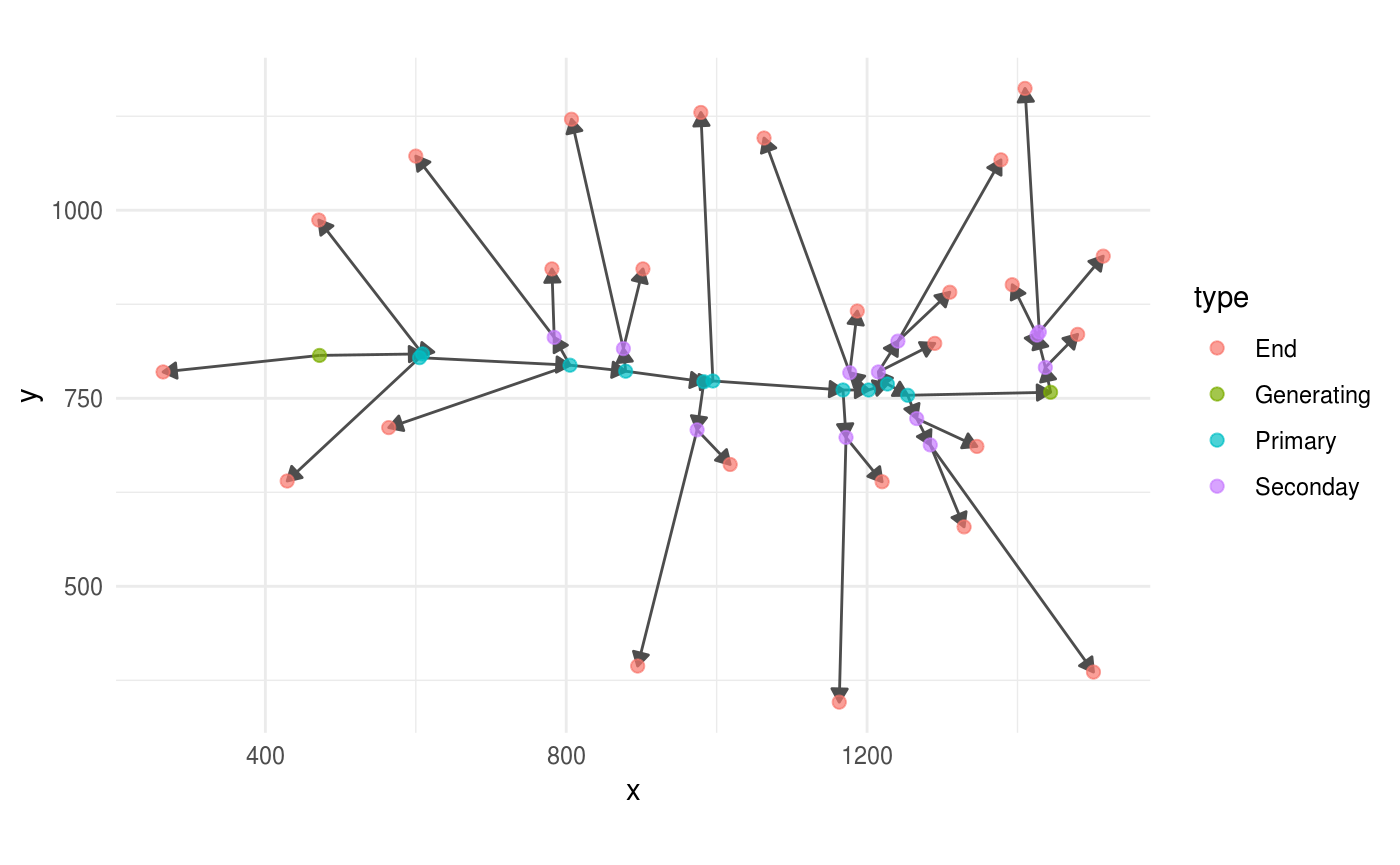
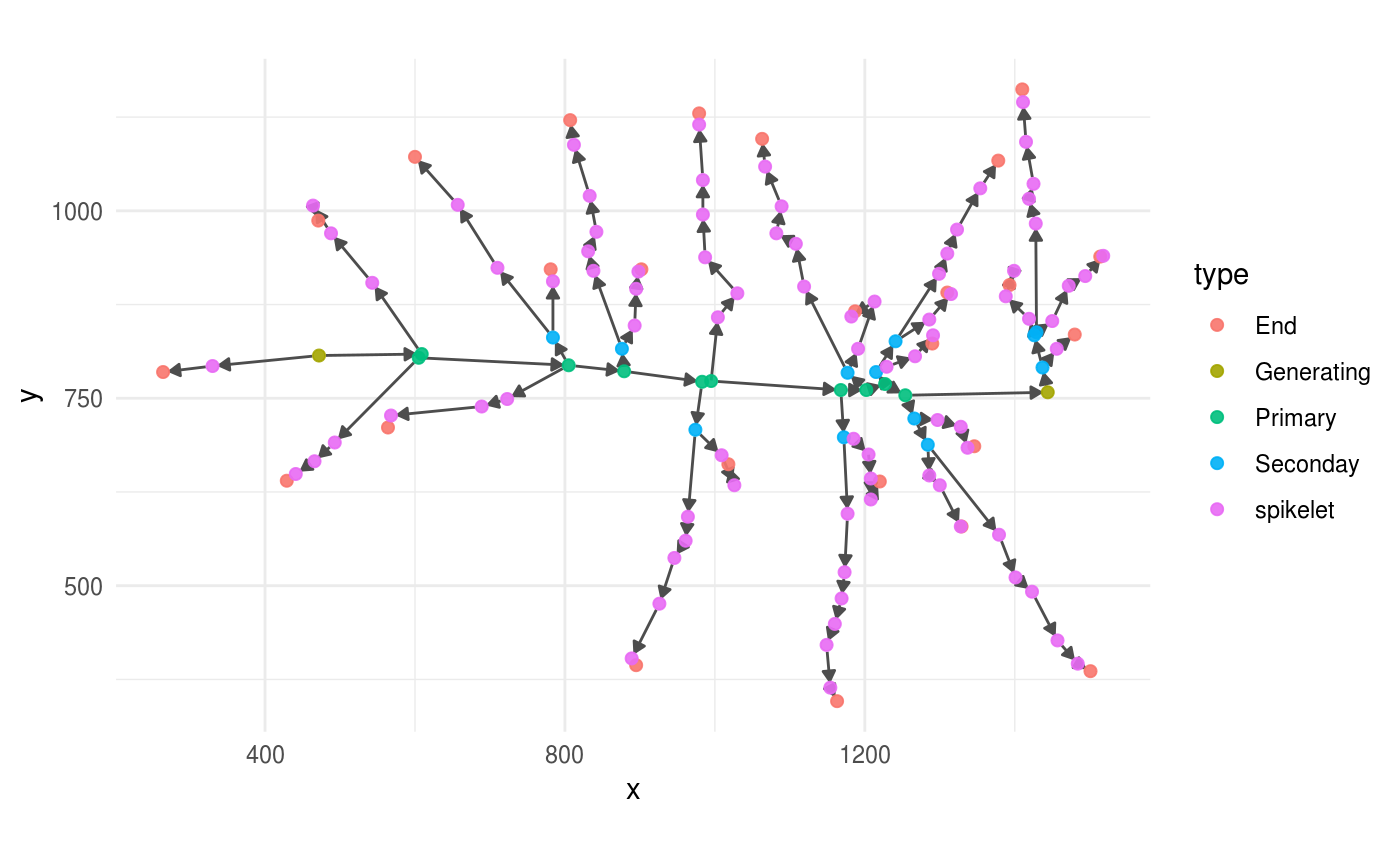
Update and improve vignette 01

diff --git a/docs/articles/01-load-files.html b/docs/articles/01-load-files.html
@@ -29,7 +29,7 @@
       </button>
       <span class="navbar-brand">
         <a class="navbar-link" href="../index.html">ptrapr</a>
-        <span class="label label-default" data-toggle="tooltip" data-placement="bottom" title="Released package">0.0.1</span>
+        <span class="label label-default" data-toggle="tooltip" data-placement="bottom" title="Released package">0.0.1.9000</span>
       </span>
     </div>
 
@@ -69,7 +69,14 @@
   <a href="../news/index.html">Changelog</a>
 </li>
       </ul>
-<ul class="nav navbar-nav navbar-right"></ul>
+<ul class="nav navbar-nav navbar-right">
+<li>
+  <a href="https://github.com/othomantegazza/ptrapr">
+    <span class="fa fa-github fa-lg"></span>
+     
+  </a>
+</li>
+      </ul>
 </div>
 <!--/.nav-collapse -->
   </div>
@@ -84,9 +91,9 @@
       <h1>01 - Load Panicles Files Into R</h1>
                         <h4 class="author">Otho Mantegazza</h4>
             
-            <h4 class="date">2018-12-07</h4>
+            <h4 class="date">2019-01-04</h4>
       
-      
+      <small class="dont-index">Source: <a href="https://github.com/othomantegazza/ptrapr/blob/master/vignettes/01-load-files.Rmd"><code>vignettes/01-load-files.Rmd</code></a></small>
       <div class="hidden name"><code>01-load-files.Rmd</code></div>
 
     </div>
@@ -103,6 +110,7 @@
 <span class="co"># library(tibble)</span>
 <span class="kw">library</span>(dplyr)
 <span class="co"># library(tidygraph)</span>
+<span class="kw">library</span>(stringr)
 
 <span class="co"># ggplot2 theme minimal fits better with graphs</span>
 <span class="kw">theme_set</span>(<span class="kw">theme_minimal</span>())</code></pre></div>
@@ -120,10 +128,53 @@
 </dd>
 </dl>
 <p>We have included examples of those files in this package. You can access these examples <a href="https://github.com/othomantegazza/ptrapr"><strong>online here</strong></a> or locally in the folder <code>ptrapr/extdata</code> <a href="#fn1" class="footnoteRef" id="fnref1"><sup>1</sup></a>.</p>
+<div id="easily-read-and-plot-the-full-panicle" class="section level2">
+<h2 class="hasAnchor">
+<a href="#easily-read-and-plot-the-full-panicle" class="anchor"></a>Easily read and plot the full panicle</h2>
+<p>We provide a convinent function that loads a full panicle in R: <code><a href="../reference/read_full_panicle.html">read_full_panicle()</a></code>. This funcrtion reads a file tha stores the panicle architecture (that has extension <code>.ricepr</code>) and its counterpart that stores the grain coordinates (that has extension <code>.ricegr</code>) and merges them together.</p>
+<p>This function requires the path to both files as argument.</p>
+<p>We provide examples of <code>.ricepr</code> and <code>.ricegr</code> files bundled in this package, with the following lines of code you can access those files and load them into R:</p>
+<div class="sourceCode"><pre class="sourceCode r"><code class="sourceCode r"><span class="co"># find a .ricepr file</span>
+structure_path &lt;-<span class="st"> </span><span class="kw">system.file</span>(<span class="st">"extdata/1_1_6307.ricepr"</span>, 
+                   <span class="dt">package =</span> <span class="st">"ptrapr"</span>) 
+
+<span class="co"># and its .ricegr counterpart</span>
+grain_path &lt;-<span class="st"> </span><span class="kw">system.file</span>(<span class="st">"extdata/1_1_6307.ricegr"</span>,
+                          <span class="dt">package =</span> <span class="st">"ptrapr"</span>)
+
+<span class="co"># load them into R and mergge them</span>
+full_panicle &lt;-<span class="st"> </span><span class="kw"><a href="../reference/read_full_panicle.html">read_full_panicle</a></span>(<span class="dt">pr_file =</span> structure_path,
+                                  <span class="dt">gr_file =</span> grain_path)</code></pre></div>
+<p>The function <code><a href="../reference/read_full_panicle.html">read_full_panicle()</a></code> outputs an graph object of class <a href="https://igraph.org/r/"><code>igraph</code></a>.</p>
+<p>This graph can be visualized directly with <code><a href="../reference/plot_panicle.html">plot_panicle()</a></code></p>
+<div class="sourceCode"><pre class="sourceCode r"><code class="sourceCode r"><span class="kw"><a href="../reference/plot_panicle.html">plot_panicle</a></span>(full_panicle)</code></pre></div>
+<p><img src="01-load-files_files/figure-html/unnamed-chunk-3-1.png" width="700"></p>
+<div id="if-the--ricepr-and--ricegr-files-have-the-same-name" class="section level3">
+<h3 class="hasAnchor">
+<a href="#if-the--ricepr-and--ricegr-files-have-the-same-name" class="anchor"></a>If the <code>.ricepr</code> and <code>.ricegr</code> files have the same name</h3>
+<p>If those two files are in the same folder and they have the same name, like in this case you can provide the path to those files omitting the extension to the function <code><a href="../reference/read_full_panicle.html">read_full_panicle()</a></code> in the parameter <code>base_path</code>.</p>
+<p>For example, in my case, the path to the .ricepr file is:</p>
+<div class="sourceCode"><pre class="sourceCode r"><code class="sourceCode r">structure_path
+<span class="co">#&gt; [1] "/home/otho/R/x86_64-pc-linux-gnu-library/3.4/ptrapr/extdata/1_1_6307.ricepr"</span></code></pre></div>
+<p>And the one to the .ricegr file is the same, only the extension changes:</p>
+<div class="sourceCode"><pre class="sourceCode r"><code class="sourceCode r">grain_path
+<span class="co">#&gt; [1] "/home/otho/R/x86_64-pc-linux-gnu-library/3.4/ptrapr/extdata/1_1_6307.ricegr"</span></code></pre></div>
+<p>So, I can remove the extension from one of those files:</p>
+<div class="sourceCode"><pre class="sourceCode r"><code class="sourceCode r">base_path &lt;-<span class="st"> </span>
+<span class="st">  </span>structure_path <span class="op">%&gt;%</span><span class="st"> </span>
+<span class="st">  </span><span class="kw"><a href="http://www.rdocumentation.org/packages/stringr/topics/str_remove">str_remove</a></span>(<span class="st">".ricepr"</span>)
+
+base_path
+<span class="co">#&gt; [1] "/home/otho/R/x86_64-pc-linux-gnu-library/3.4/ptrapr/extdata/1_1_6307"</span></code></pre></div>
+<p>And use that shortened version to load the full panicle into R with <code><a href="../reference/read_full_panicle.html">read_full_panicle()</a></code></p>
+<div class="sourceCode"><pre class="sourceCode r"><code class="sourceCode r">full_panicle &lt;-<span class="st"> </span><span class="kw"><a href="../reference/read_full_panicle.html">read_full_panicle</a></span>(<span class="dt">base_path =</span> base_path)</code></pre></div>
+<p>The result is exactly the same as above, and this approach might come in handy when you have to loop over the structure of many panicles.</p>
+</div>
+</div>
 <div id="read-panicle-structure-with-read_panicle" class="section level2">
 <h2 class="hasAnchor">
-<a href="#read-panicle-structure-with-read_panicle" class="anchor"></a>Read Panicle Structure with <code><a href="../reference/read_panicle.html">read_panicle()</a></code>
-</h2>
+<a href="#read-panicle-structure-with-read_panicle" class="anchor"></a>Read Panicle Structure with read_panicle()</h2>
+<p>From here on, we show all the steps that <code><a href="../reference/read_full_panicle.html">read_full_panicle()</a></code> does automatically: how to parse the two files separately, and how they are merged.</p>
 <p>The structure and topology of the panicle is stored in the <code>.ricepr</code> XML files.</p>
 <p>You can parse and load in R <code>.ricepr</code> files with the function <code><a href="../reference/read_panicle.html">read_panicle()</a></code>.</p>
 <p>You can test the <code><a href="../reference/read_panicle.html">read_panicle()</a></code> function on one of the <code>.ricepr</code> files included in this package:</p>
@@ -140,7 +191,7 @@ panicle &lt;-
 <p>Besides checking that the structure resembles what you expect, check that all the edges point outward.</p>
 <p>For example:</p>
 <div class="sourceCode"><pre class="sourceCode r"><code class="sourceCode r">panicle <span class="op">%&gt;%</span><span class="st"> </span>
-<span class="st">  </span><span class="kw"><a href="http://www.rdocumentation.org/packages/ggraph/topics/ggraph">ggraph</a></span>() <span class="op">+</span><span class="st"> </span>
+<span class="st">  </span><span class="kw"><a href="http://www.rdocumentation.org/packages/ggraph/topics/ggraph">ggraph</a></span>(<span class="dt">layout =</span> <span class="st">"nicely"</span>) <span class="op">+</span><span class="st"> </span>
 <span class="st">  </span><span class="kw"><a href="http://www.rdocumentation.org/packages/ggraph/topics/geom_edge_link">geom_edge_link</a></span>(<span class="dt">arrow =</span> grid<span class="op">::</span><span class="kw"><a href="http://www.rdocumentation.org/packages/grid/topics/arrow">arrow</a></span>(<span class="dt">length =</span> <span class="kw">unit</span>(<span class="fl">0.08</span>,
                                                    <span class="st">"inches"</span>),
                                      <span class="dt">type =</span> <span class="st">"closed"</span>),
@@ -148,14 +199,12 @@ panicle &lt;-
 <span class="st">  </span><span class="kw"><a href="http://www.rdocumentation.org/packages/ggraph/topics/geom_node_point">geom_node_point</a></span>(<span class="kw">aes</span>(<span class="dt">colour =</span> type),
                   <span class="dt">size =</span> <span class="dv">2</span>,
                   <span class="dt">alpha =</span>.<span class="dv">7</span>) <span class="op">+</span>
-<span class="st">  </span><span class="kw">coord_fixed</span>()
-<span class="co">#&gt; Using `nicely` as default layout</span></code></pre></div>
-<p><img src="01-load-files_files/figure-html/unnamed-chunk-3-1.png" width="700"></p>
+<span class="st">  </span><span class="kw">coord_fixed</span>()</code></pre></div>
+<p><img src="01-load-files_files/figure-html/unnamed-chunk-9-1.png" width="700"></p>
 </div>
 <div id="read-grain-coordinates-with-read_grains" class="section level2">
 <h2 class="hasAnchor">
-<a href="#read-grain-coordinates-with-read_grains" class="anchor"></a>Read Grain Coordinates with <code><a href="../reference/read_grains.html">read_grains()</a></code>
-</h2>
+<a href="#read-grain-coordinates-with-read_grains" class="anchor"></a>Read Grain Coordinates with read_grains()</h2>
 <p>Likewise, we provide a sample <code>.ricegr</code> file. This file stores coordinates for all the grains on the panicle, but no structual / topological information.</p>
 <div class="sourceCode"><pre class="sourceCode r"><code class="sourceCode r">grain_path &lt;-<span class="st"> </span><span class="kw">system.file</span>(<span class="st">"extdata/1_1_6307.ricegr"</span>,
                           <span class="dt">package =</span> <span class="st">"ptrapr"</span>)
@@ -169,12 +218,11 @@ grains &lt;-<span class="st"> </span>
            <span class="dt">y =</span> y)) <span class="op">+</span>
 <span class="st">  </span><span class="kw">geom_point</span>() <span class="op">+</span>
 <span class="st">  </span><span class="kw">coord_fixed</span>()</code></pre></div>
-<p><img src="01-load-files_files/figure-html/unnamed-chunk-5-1.png" width="700"></p>
+<p><img src="01-load-files_files/figure-html/unnamed-chunk-11-1.png" width="700"></p>
 </div>
 <div id="merge-grains-into-the-panicle-graph-with-add_all_grains" class="section level2">
 <h2 class="hasAnchor">
-<a href="#merge-grains-into-the-panicle-graph-with-add_all_grains" class="anchor"></a>Merge Grains into the Panicle Graph with <code><a href="../reference/add_all_grains.html">add_all_grains()</a></code>
-</h2>
+<a href="#merge-grains-into-the-panicle-graph-with-add_all_grains" class="anchor"></a>Merge Grains into the Panicle Graph with add_all_grains()</h2>
 <p>Including grains into the panicle graph is a non trivial task with no perfect solution. We had best results by assigning the grain to the closest bracnh and by splitting the brach on the grain itself, creating a new intermediate node.</p>
 <p>You can do this with the function <code><a href="../reference/add_all_grains.html">add_all_grains()</a></code>.</p>
 <div class="sourceCode"><pre class="sourceCode r"><code class="sourceCode r">full_panicle &lt;-<span class="st"> </span>
@@ -182,7 +230,7 @@ grains &lt;-<span class="st"> </span>
 <span class="st">  </span><span class="kw"><a href="../reference/add_all_grains.html">add_all_grains</a></span>(grains)</code></pre></div>
 <p>For example, this is how the panicle graphs and the grains look <strong>before</strong> adding the grains. As you can see, the grains are detached from the main panicle graph.</p>
 <div class="sourceCode"><pre class="sourceCode r"><code class="sourceCode r">panicle <span class="op">%&gt;%</span><span class="st"> </span>
-<span class="st">  </span><span class="kw"><a href="http://www.rdocumentation.org/packages/ggraph/topics/ggraph">ggraph</a></span>() <span class="op">+</span><span class="st"> </span>
+<span class="st">  </span><span class="kw"><a href="http://www.rdocumentation.org/packages/ggraph/topics/ggraph">ggraph</a></span>(<span class="dt">layout =</span> <span class="st">"nicely"</span>) <span class="op">+</span><span class="st"> </span>
 <span class="st">  </span><span class="kw"><a href="http://www.rdocumentation.org/packages/ggraph/topics/geom_edge_link">geom_edge_link</a></span>(<span class="dt">arrow =</span> grid<span class="op">::</span><span class="kw"><a href="http://www.rdocumentation.org/packages/grid/topics/arrow">arrow</a></span>(<span class="dt">length =</span> <span class="kw">unit</span>(<span class="fl">0.08</span>,
                                                    <span class="st">"inches"</span>),
                                      <span class="dt">type =</span> <span class="st">"closed"</span>),
@@ -192,12 +240,11 @@ grains &lt;-<span class="st"> </span>
                   <span class="dt">alpha =</span>.<span class="dv">7</span>) <span class="op">+</span>
 <span class="st">  </span><span class="kw">geom_point</span>(<span class="dt">data =</span> grains,
              <span class="kw">aes</span>(<span class="dt">x =</span> x, <span class="dt">y =</span> y)) <span class="op">+</span>
-<span class="st">  </span><span class="kw">coord_fixed</span>()
-<span class="co">#&gt; Using `nicely` as default layout</span></code></pre></div>
-<p><img src="01-load-files_files/figure-html/unnamed-chunk-7-1.png" width="700"></p>
+<span class="st">  </span><span class="kw">coord_fixed</span>()</code></pre></div>
+<p><img src="01-load-files_files/figure-html/unnamed-chunk-13-1.png" width="700"></p>
 <p>And this is how it looks <strong>after adding the grains</strong>.</p>
 <div class="sourceCode"><pre class="sourceCode r"><code class="sourceCode r">full_panicle <span class="op">%&gt;%</span>
-<span class="st">  </span><span class="kw"><a href="http://www.rdocumentation.org/packages/ggraph/topics/ggraph">ggraph</a></span>() <span class="op">+</span><span class="st"> </span>
+<span class="st">  </span><span class="kw"><a href="http://www.rdocumentation.org/packages/ggraph/topics/ggraph">ggraph</a></span>(<span class="dt">layout =</span> <span class="st">"nicely"</span>) <span class="op">+</span><span class="st"> </span>
 <span class="st">  </span><span class="kw"><a href="http://www.rdocumentation.org/packages/ggraph/topics/geom_edge_link">geom_edge_link</a></span>(<span class="dt">arrow =</span> grid<span class="op">::</span><span class="kw"><a href="http://www.rdocumentation.org/packages/grid/topics/arrow">arrow</a></span>(<span class="dt">length =</span> <span class="kw">unit</span>(<span class="fl">0.08</span>,
                                                    <span class="st">"inches"</span>),
                                      <span class="dt">type =</span> <span class="st">"closed"</span>),
@@ -205,15 +252,14 @@ grains &lt;-<span class="st"> </span>
 <span class="st">  </span><span class="kw"><a href="http://www.rdocumentation.org/packages/ggraph/topics/geom_node_point">geom_node_point</a></span>(<span class="kw">aes</span>(<span class="dt">colour =</span> type),
                   <span class="dt">size =</span> <span class="dv">2</span>,
                   <span class="dt">alpha =</span>.<span class="dv">7</span>) <span class="op">+</span>
-<span class="st">  </span><span class="kw">coord_fixed</span>() 
-<span class="co">#&gt; Using `nicely` as default layout</span></code></pre></div>
-<p><img src="01-load-files_files/figure-html/unnamed-chunk-8-1.png" width="700"></p>
+<span class="st">  </span><span class="kw">coord_fixed</span>() </code></pre></div>
+<p><img src="01-load-files_files/figure-html/unnamed-chunk-14-1.png" width="700"></p>
 </div>
 </div>
 <div class="footnotes">
 <hr>
 <ol>
-<li id="fn1"><p>Locate your local package folder with the function:: <code>find.package("ptrapr")</code><a href="#fnref1">↩</a></p></li>
+<li id="fn1"><p>Locate your local package folder with the function:: <code>find.package("ptrapr")</code>.<a href="#fnref1">↩</a></p></li>
 </ol>
 </div>
   </div>
@@ -226,9 +272,10 @@ grains &lt;-<span class="st"> </span>
 <li><a href="#setup">Setup</a></li>
       <li>
 <a href="#read-panicle-xml-files">Read Panicle XML files</a><ul class="nav nav-pills nav-stacked">
-<li><a href="#read-panicle-structure-with-read_panicle">Read Panicle Structure with <code><a href="--/reference/read_panicle-html">read_panicle()</a></code></a></li>
-      <li><a href="#read-grain-coordinates-with-read_grains">Read Grain Coordinates with <code><a href="--/reference/read_grains-html">read_grains()</a></code></a></li>
-      <li><a href="#merge-grains-into-the-panicle-graph-with-add_all_grains">Merge Grains into the Panicle Graph with <code><a href="--/reference/add_all_grains-html">add_all_grains()</a></code></a></li>
+<li><a href="#easily-read-and-plot-the-full-panicle">Easily read and plot the full panicle</a></li>
+      <li><a href="#read-panicle-structure-with-read_panicle">Read Panicle Structure with read_panicle()</a></li>
+      <li><a href="#read-grain-coordinates-with-read_grains">Read Grain Coordinates with read_grains()</a></li>
+      <li><a href="#merge-grains-into-the-panicle-graph-with-add_all_grains">Merge Grains into the Panicle Graph with add_all_grains()</a></li>
       </ul>
 </li>
       </ul>
